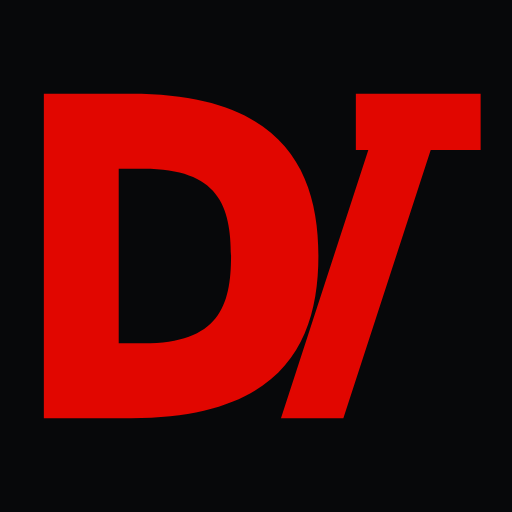
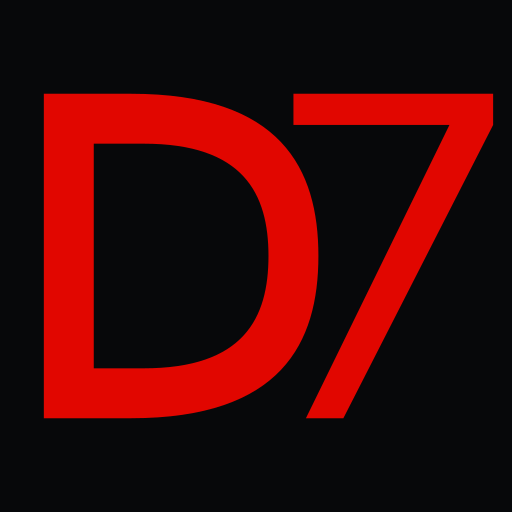
Sharpen D7 monogram with a lighter seven and thinner D

diff --git a/index.html b/index.html
@@ -411,8 +411,8 @@ button.remove-button, button#delete-route, button#end-trip, .report-entry button
       <header class="console-header">
         <div class="brand">
           <svg class="logo-mark" viewBox="0 0 80 64" aria-hidden="true">
-            <path fill="currentColor" fill-rule="evenodd" d="M6 6H20C44 6 50 18 50 32C50 46 44 58 20 58H6ZM18 18H22C34 18 36 24 36 32C36 40 34 46 22 46H18Z"/>
-            <path fill="currentColor" d="M56 6H76V15H68L54 58H44L58 15H56Z"/>
+            <path fill="currentColor" fill-rule="evenodd" d="M6 6H20C44 6 50 18 50 32C50 46 44 58 20 58H6ZM14 14H22C38 14 42 22 42 32C42 42 38 50 22 50H14Z"/>
+            <path fill="currentColor" d="M46 6H78V11L54 58H48L71 11H46Z"/>
           </svg>
           <div class="brand-text">
             <h1><span class="sr-only">D7 </span>Route</h1>
